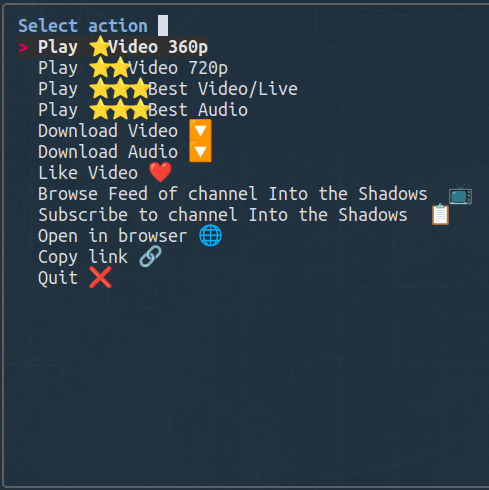
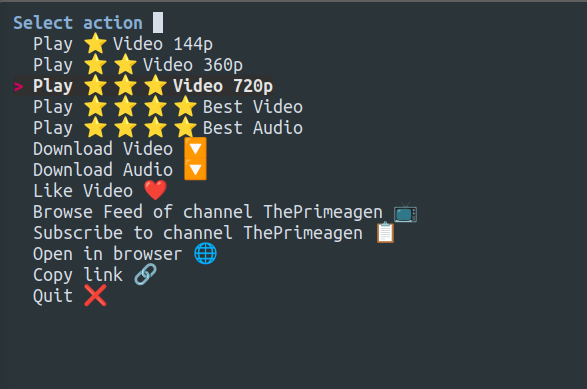
update screenshots, md

Changed region(s): [[0.0, 0.0, 1.0, 1.0]]

diff --git a/README.md b/README.md
@@ -103,7 +103,9 @@ or with
 
 * [ueberzug](https://github.com/seebye/ueberzug)
 
+---
 
+---
 ### How to install Ueberzug
 
  The [ueberzug](https://github.com/seebye/ueberzug) project has been archived. However, in order to install `ueberzug` one can follow these steps:
@@ -128,6 +130,7 @@ python -m pip install .
 
 **NOTE**: One may need to call above `pip install` commands as `pip install --break-system-packages` to successfully install the packages.
 
+---
 
 ---
 
@@ -277,13 +280,15 @@ Video selection is done with __fzf__:
 
 Once a video is selected, the user is prompted to __select action__:
 
-* Play ⭐Video 360p
+* Play ⭐ Video 144p
 
-* Play ⭐⭐Video 720p
+* Play ⭐⭐ Video 360p
 
-* Play ⭐⭐⭐Best Video/Live
+* Play ⭐⭐⭐ Video 720p
 
-* Play ⭐⭐⭐Best Audio
+* Play ⭐⭐⭐⭐ Best Video/Live
+
+* Play ⭐⭐⭐⭐ Best Audio
 
 * Download Video 🔽
 
@@ -306,9 +311,11 @@ Once a video is selected, the user is prompted to __select action__:
 ![image 9](screenshots/rofi_select_action.png){height=180}
 ![image 10](screenshots/fzf_select_action.png){height=180}
 ![image 11](screenshots/dmenu_select_action.png){height=180}
+
 ---
 
 ### Miscellaneous Menu
+
 The __m option__ of the Main Menu opens up the __Miscellaneous Menu__:
 
 ![image 12](screenshots/2.png){height=320}
